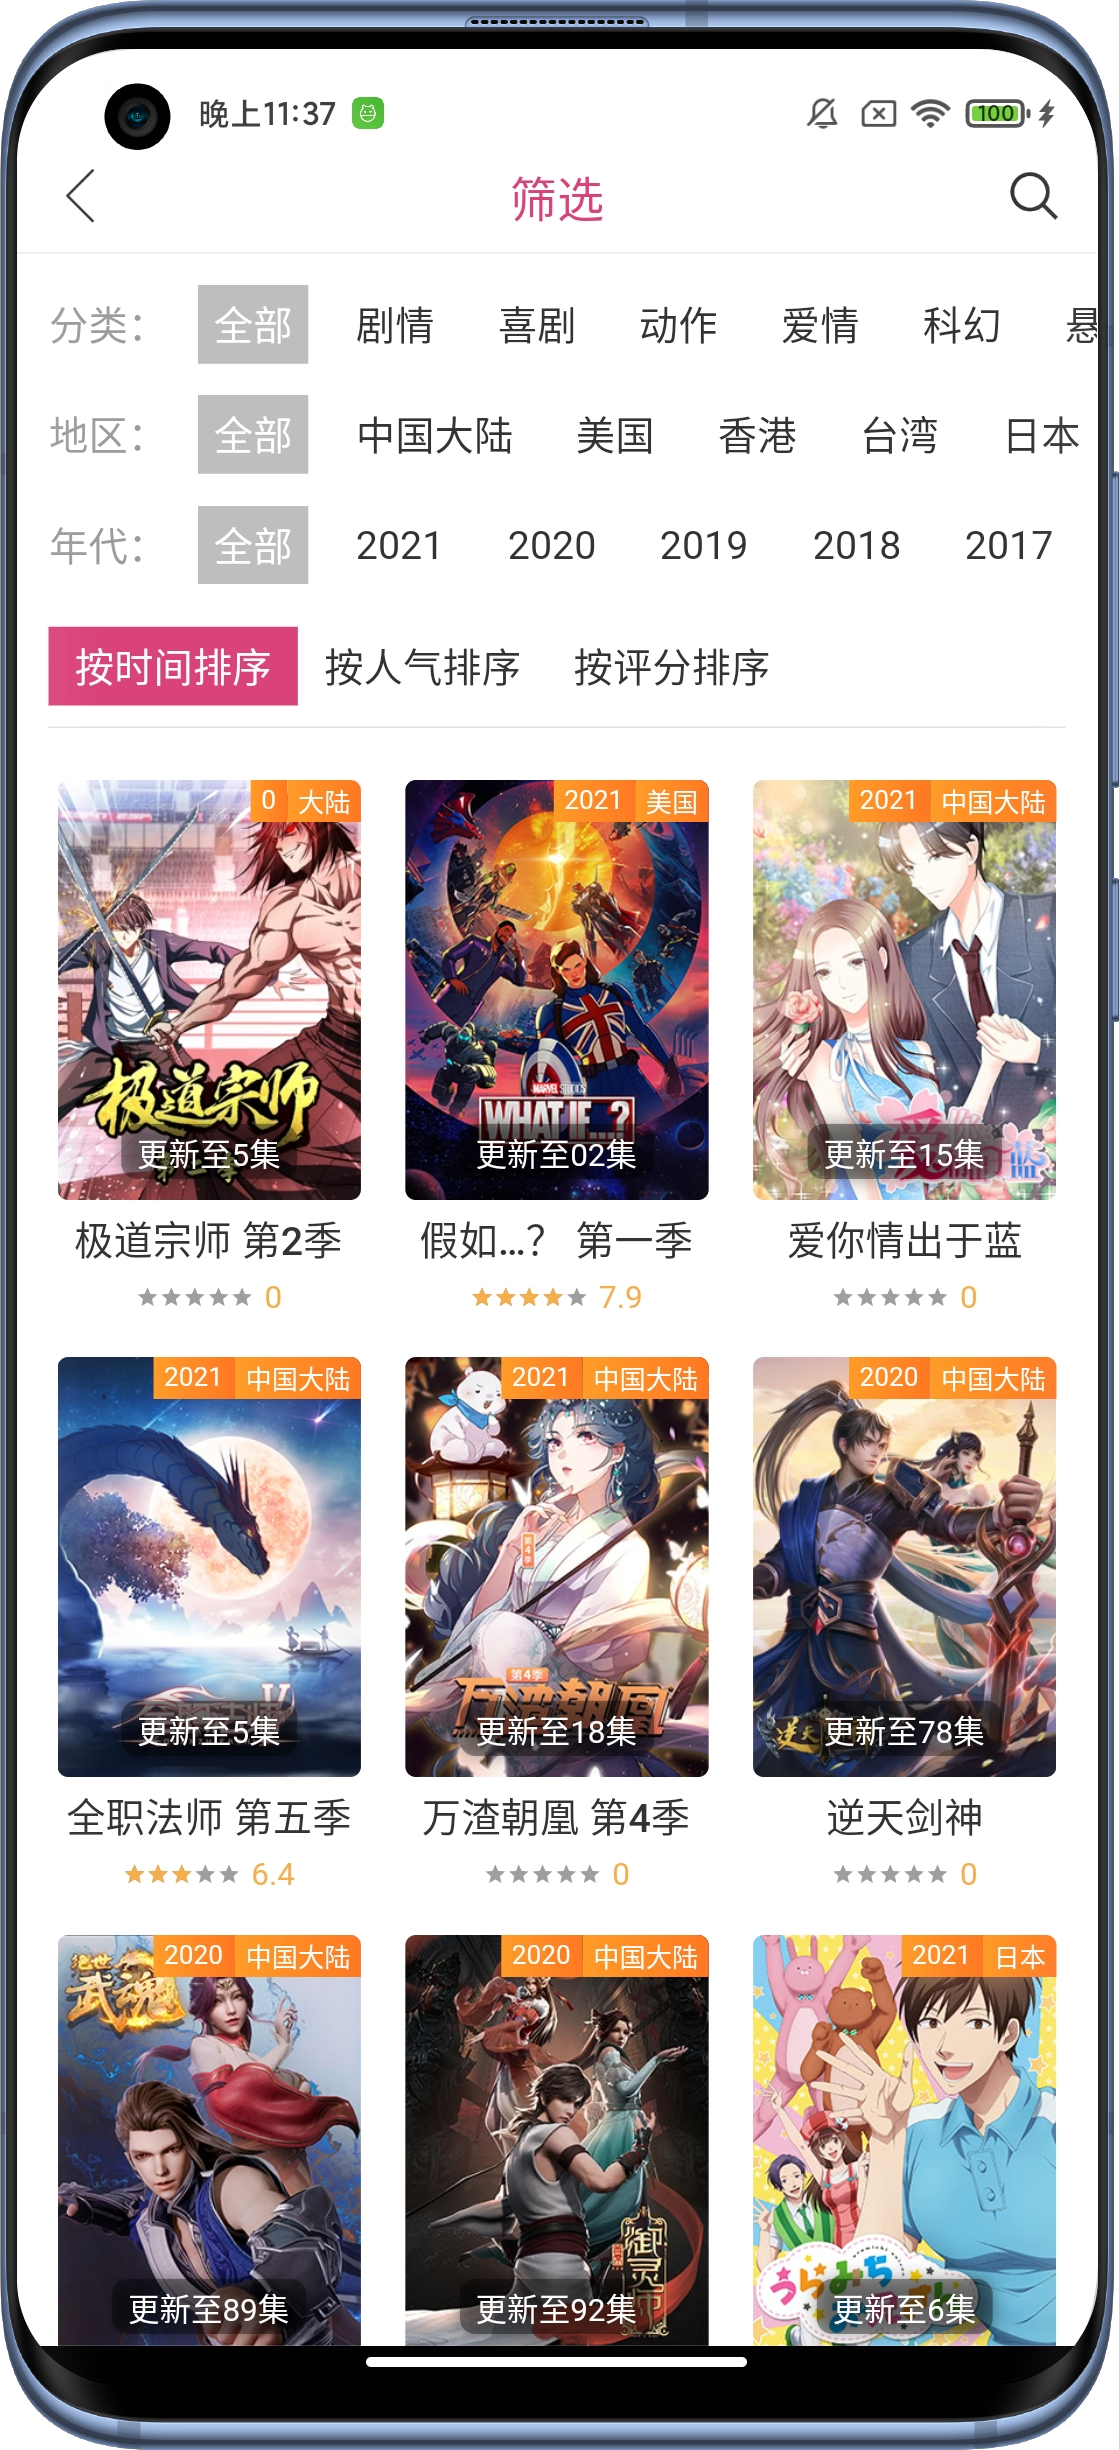
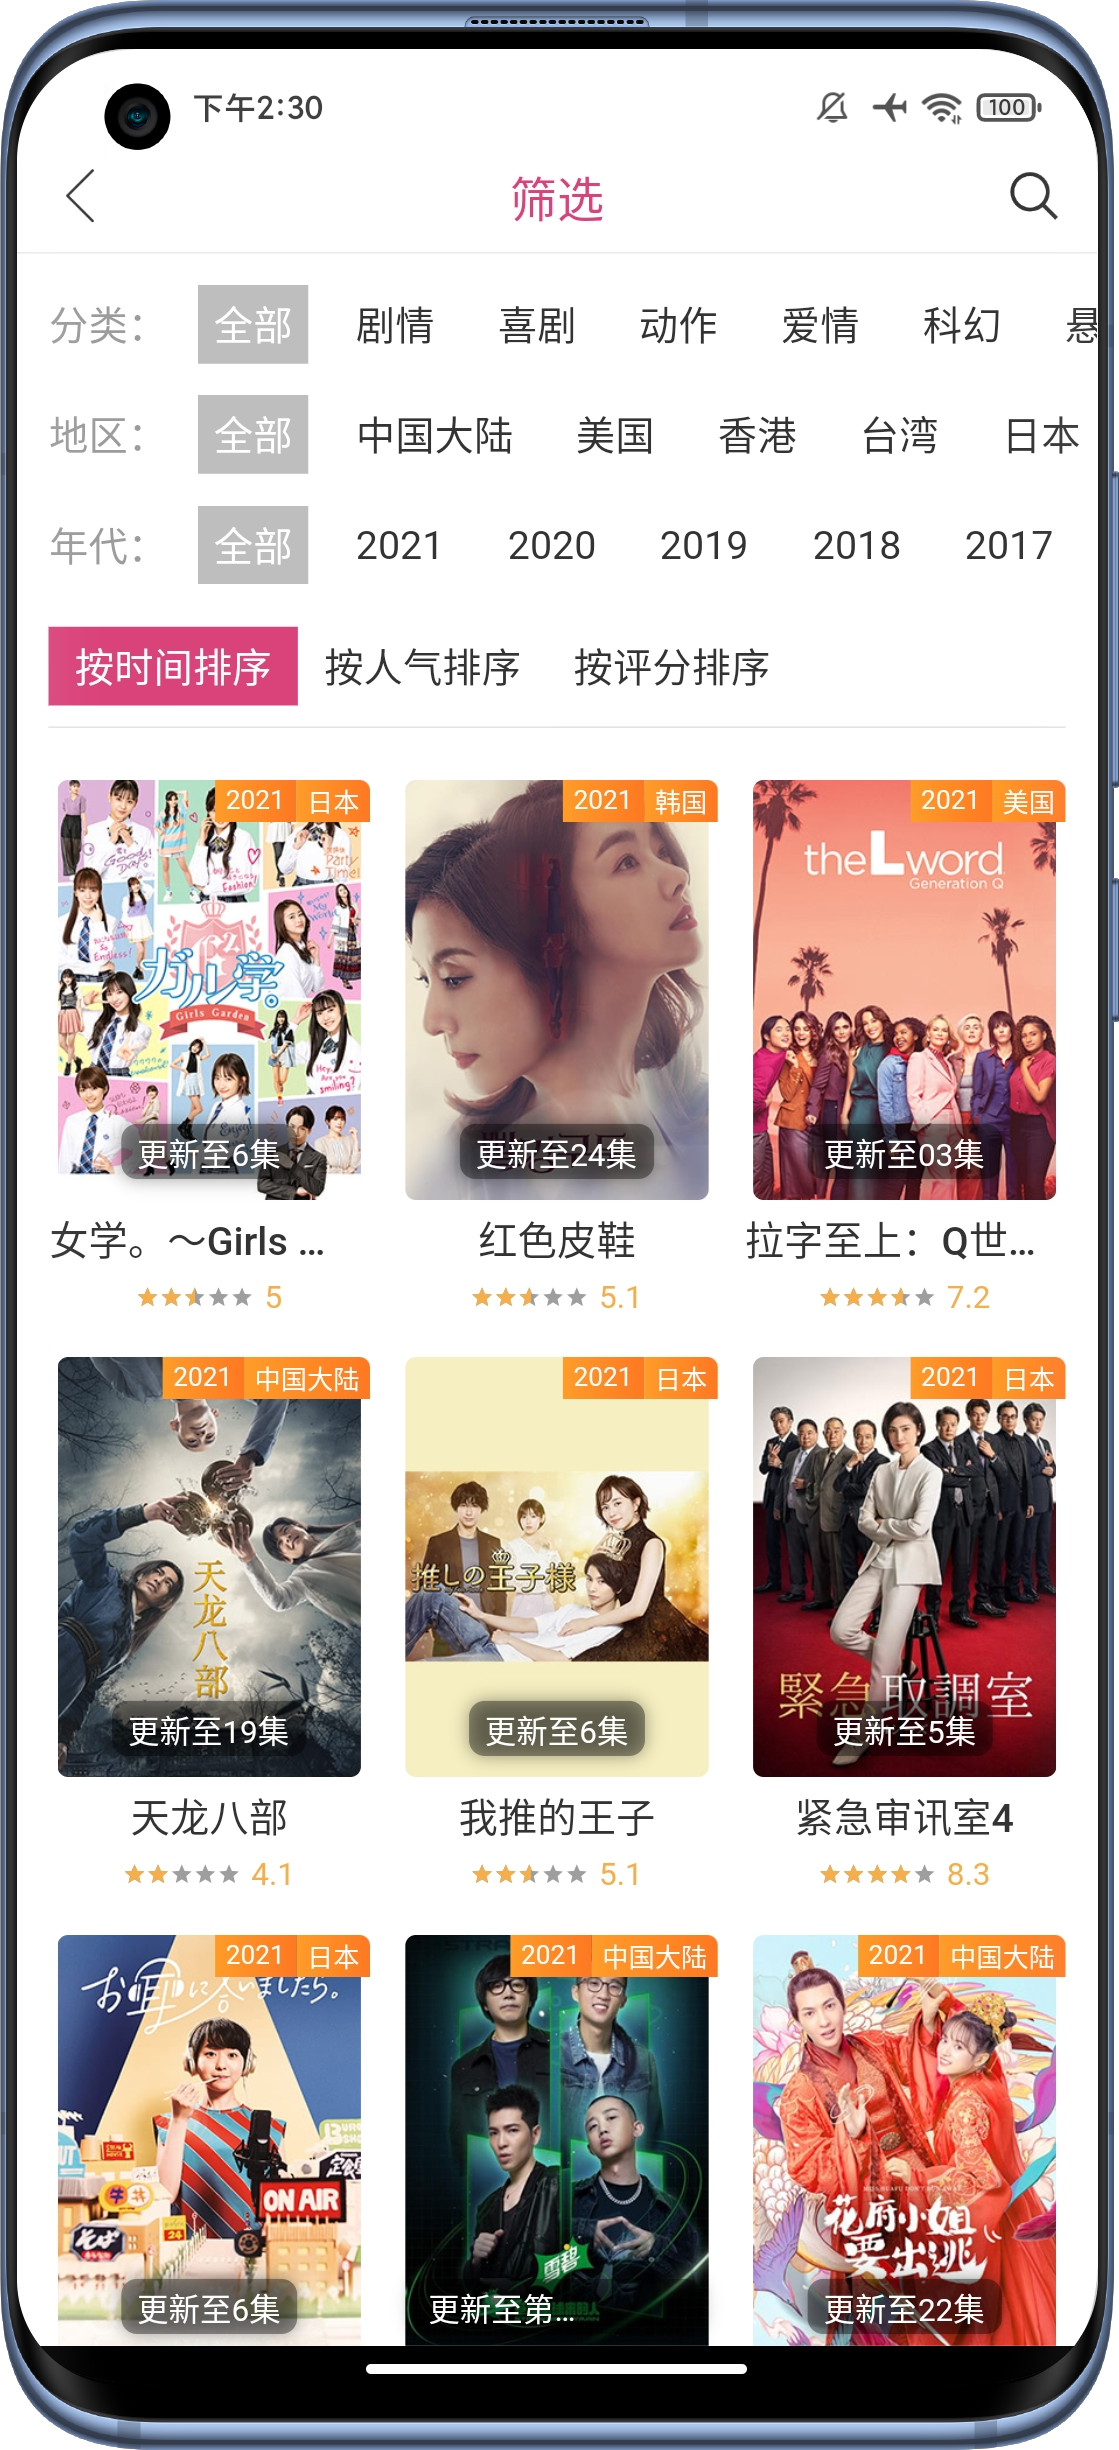
修复了一些问题

diff --git a/support/index.html b/support/index.html
@@ -21,7 +21,7 @@
     <link rel="stylesheet" type="text/css" href="css/bootstrap.min.css" />
     <link rel="stylesheet" type="text/css" href="css/global.css" />
     <link rel="stylesheet" type="text/css" href="css/base.css" />
-    <title>天天动漫</title>
+    <title>天天剧场</title>
 </head>
 
 <body>
@@ -38,7 +38,7 @@
             <p style="font-size: 20px;padding-bottom: 10px;">应用介绍</p>
             <div class="dsp margin-bottom60">
                 <section>
-                    “天天动漫“提供热播动漫大全。“天天动漫“汇集众多高清动漫资源，供您免费在线观看。看高清动漫就来“天天动漫“！
+                    “天天剧场”每天更新好看的大陆剧、港台剧、日韩剧、欧美剧、泰剧等各类内容丰富的视频，免费在线观看，追剧大全。
                 </section>
             </div>
         </div>
